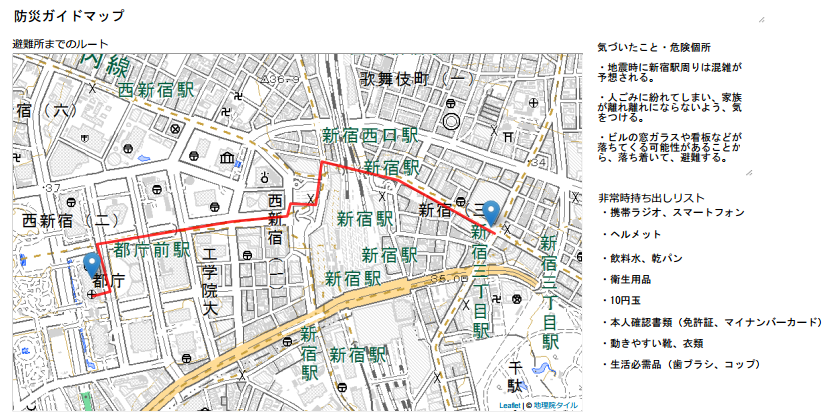
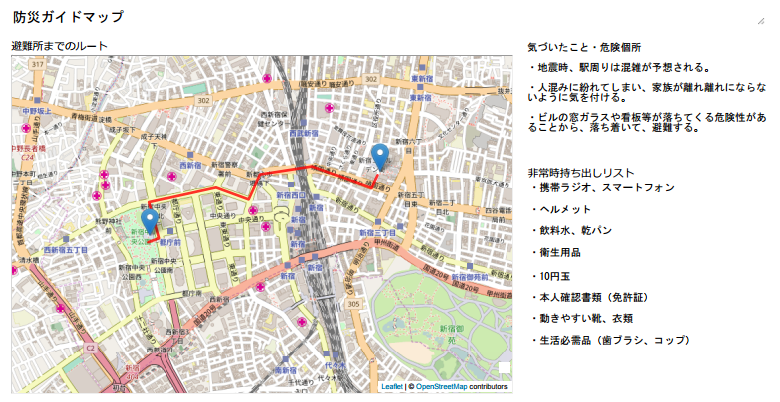
upload

diff --git a/docs/index.html b/docs/index.html
@@ -27,14 +27,6 @@
 		<title>防災INSIGHT</title>
 		<!--[if lte IE 9]><link rel="stylesheet" href="assets/css/ie9.css" /><![endif]-->
 		<noscript><link rel="stylesheet" href="assets/css/noscript.css" /></noscript>
-		<style>
-			@media (min-width: 992px){
-				#keitai{display:none;}
-			}
-			@media (max-width: 992px){
-				#pc{display:none;}
-			}
-		</style>
 	</head>
 
 	<body onload="ini()">
@@ -1748,12 +1740,9 @@
 							ご家族や友人と作ってみましょう！
 							</p>
 							
-							<ul class="actions" id="keitai">
-								<li><a href="bousai/guide_k.html" target="_blank" class="button special">作成する</a></li>
-							</ul>
-							
-							<ul class="actions" id="pc">
-								<li><a href="bousai/guide_pc.html" target="_blank" class="button special" id="pc">作成する</a></li>
+							<ul class="actions">
+								<li><a href="bousai/guide_k.html" target="_blank" class="button special">スマートフォン・タブレット用</a></li>
+								<li><a href="bousai/guide_pc.html" target="_blank" class="button special" id="pc">ＰＣ用</a></li>
 							</ul>
 
 							<h3>使い方</h3>

diff --git a/docs/assets/js/map.js b/docs/assets/js/map.js
@@ -4,7 +4,7 @@ var map;var basemaps; var p;var zoom;var hash;var url;var number;var marker; var
 function map_ini(){
 
 var tiri = L.tileLayer('https://cyberjapandata.gsi.go.jp/xyz/pale/{z}/{x}/{y}.png', {
-		attribution: '&copy; <a href="http://maps.gsi.go.jp/development/ichiran.html" target="_blank">地理院タイル</a>'
+		attribution: '&copy; <a href="http://maps.gsi.go.jp/development/ichiran.html" target="_blank">地理院タイル</a>',
 	});
 
 var test = new L.tileLayer('https://tile.geospatial.jp/nankaitrough/sindobunpu/{z}/{x}/{y}.png', {
